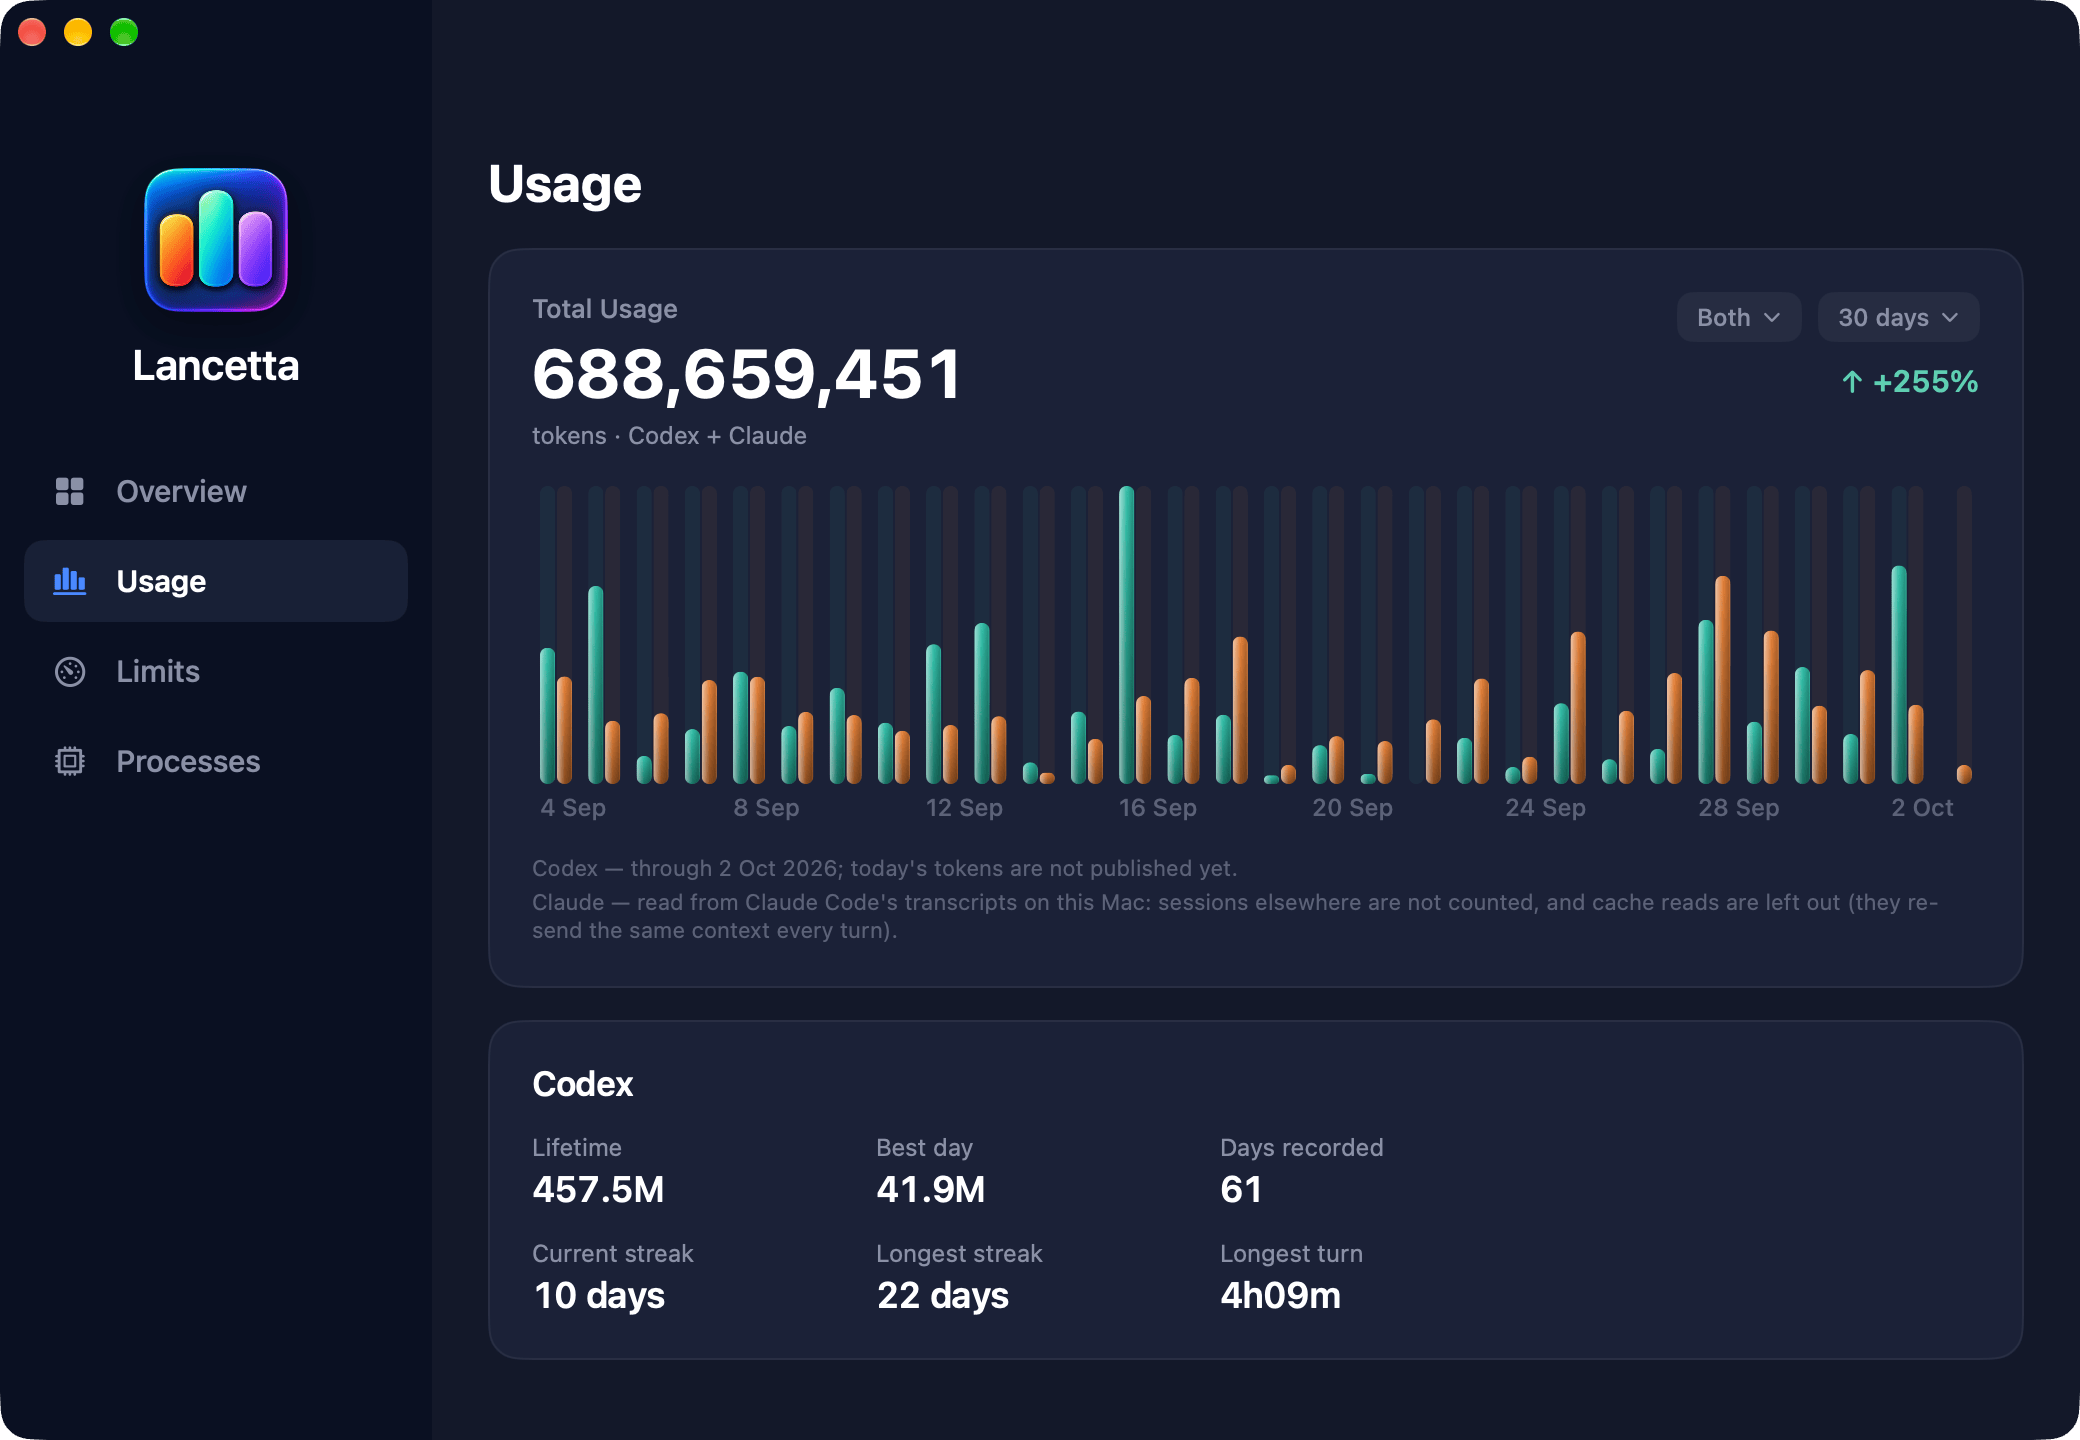
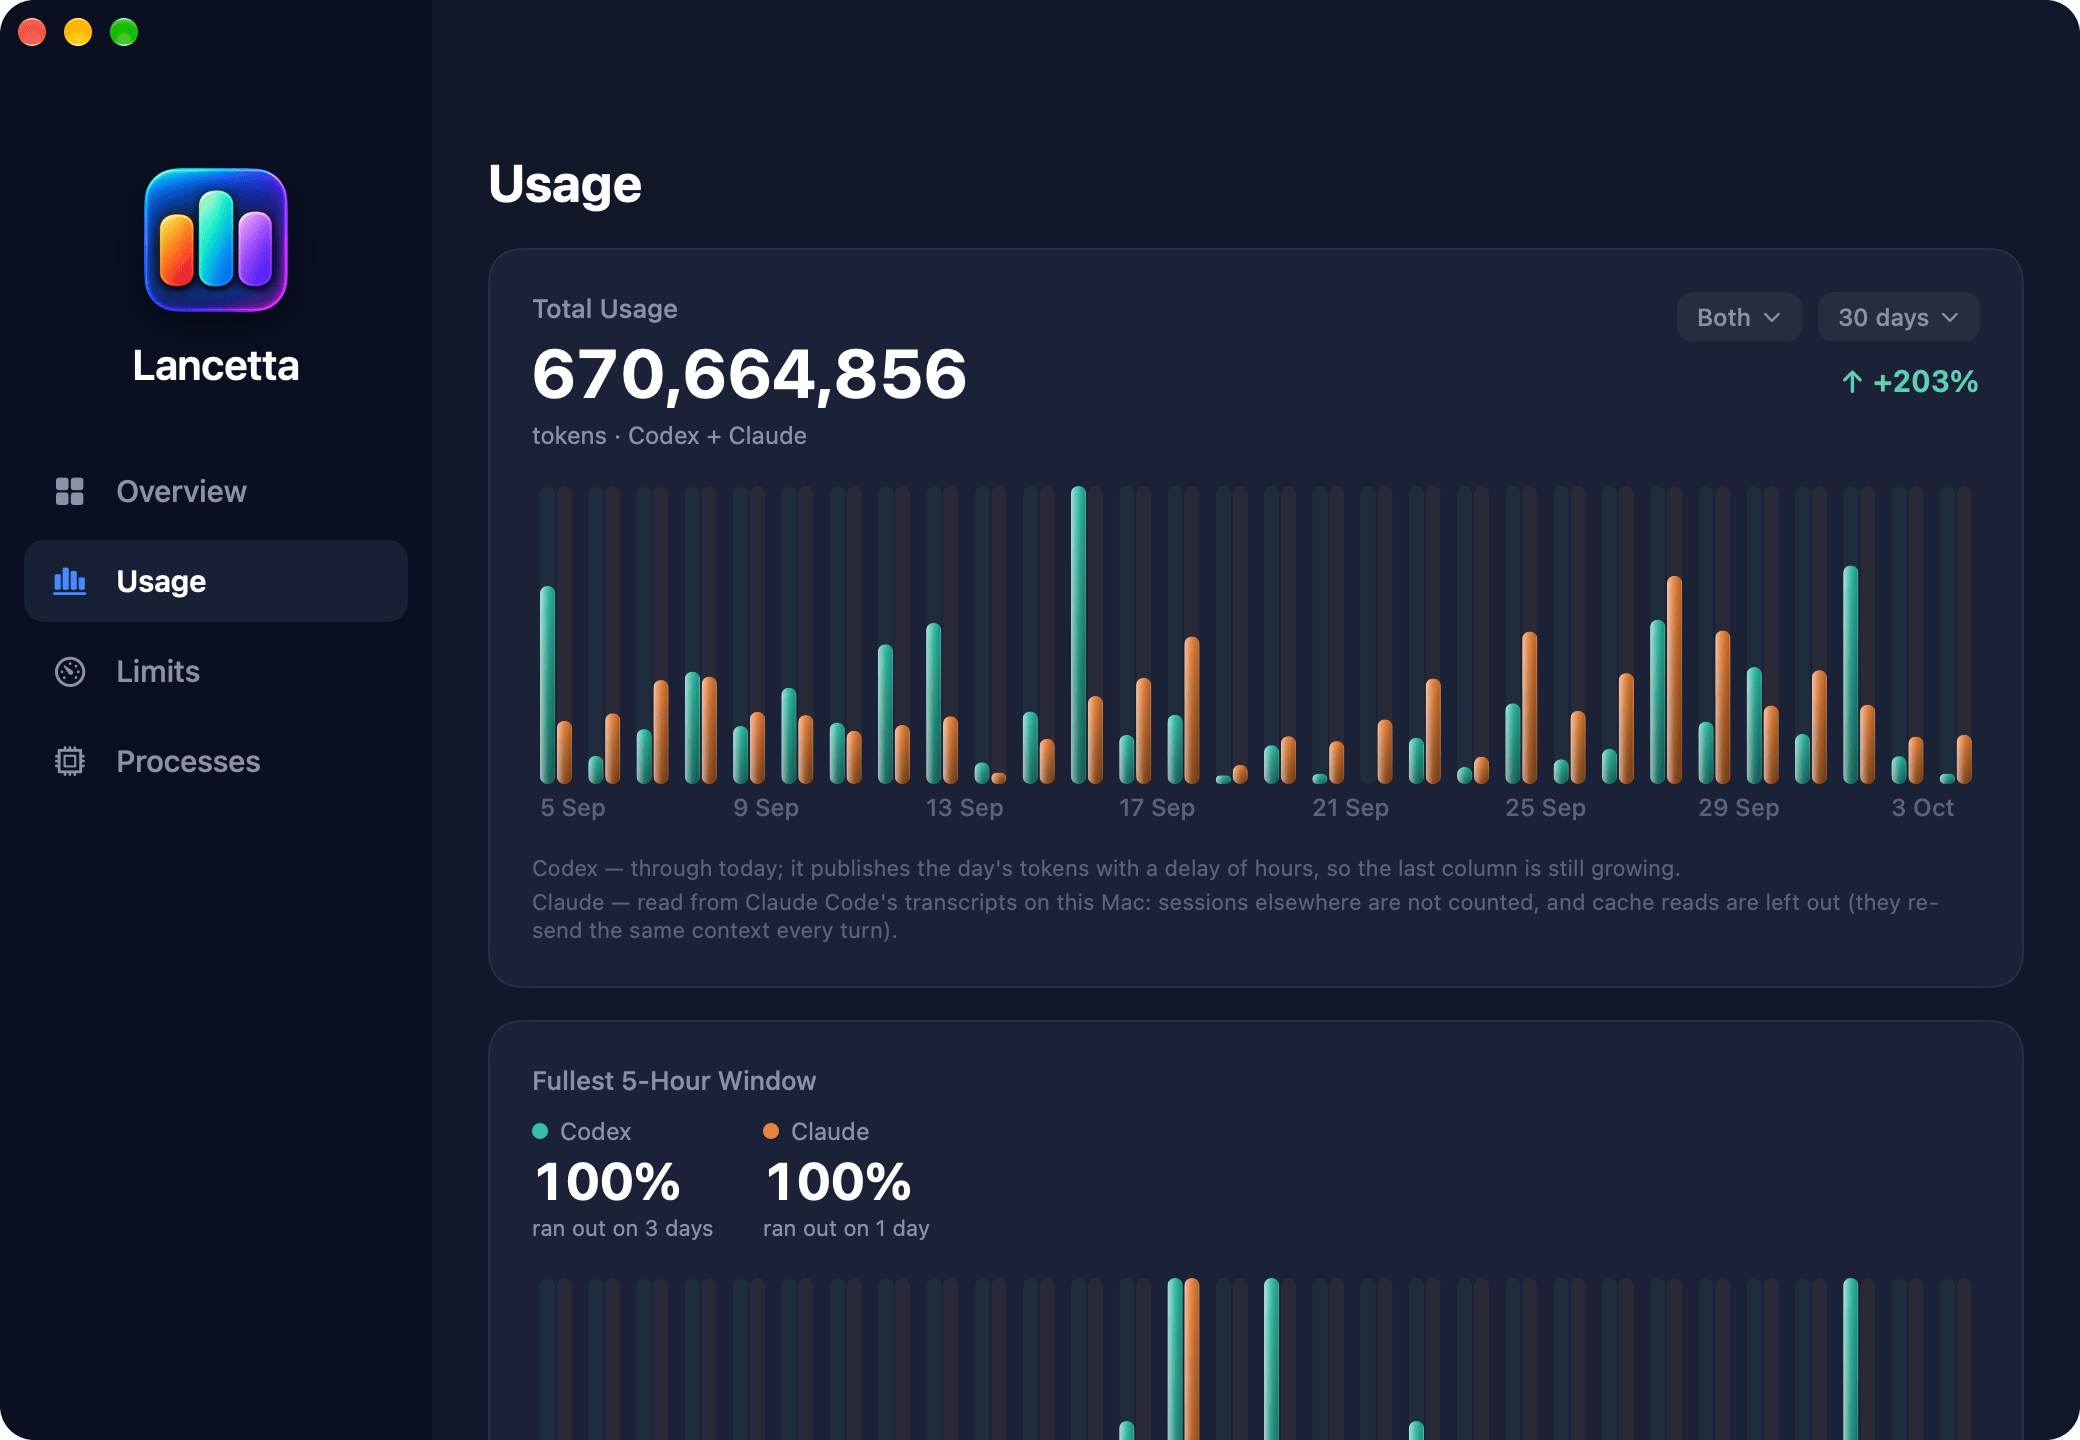
docs: the Usage frame and two crops from 0.16.0
The release commit carried the prose for working hours and the fullest
5-hour window; the pictures still showed 0.15. The Usage pane now opens
on the Fullest card under Total Usage, so its frame was re-shot and its
alt text follows. The card and the Working hours group each get a crop
beside the paragraph describing them.

CLAUDE.md records how they were made from a job whose captures failed:
the app's snapshot hatch, the corner radii, and why a snapshot's pixels
must be compared with the set in one colour space.

diff --git a/CLAUDE.md b/CLAUDE.md
@@ -331,7 +331,9 @@ Published today: the menu in both appearances, the island collapsed and open,
 the window's Overview, Usage, Limits and Processes panes plus the Overview
 scrolled to Last week, and every Settings
 pane: General, Appearance, Notch, Agents, both agent pages, Sources, Updates and
-About.
+About. Two crops sit beside them: the Usage pane's Fullest 5-Hour Window card
+(`screenshot-fullest-window.png`) and the Working hours section of Settings
+(`screenshot-settings-working-hours.png`), both from 0.16.0.
 
 **The four window panes are ONE SET, shot at ONE window size, in one run.** The
 hero showed them in the same box, one per frame, cross-fading in place, so a
@@ -442,6 +444,37 @@ and relaunched plain afterwards. Three things that run paid for:
   as the published one was. With real numbers the pace line is calm; the amber
   stop cannot be summoned from a real account, only from the demo agents, which
   are not publishable.
+
+**The Usage pane and its two crops were re-shot on 2026-10-04 for 0.16.0, from a
+background job whose captures all failed**: `screencapture -l` answered *could
+not create image from window* for every window, sandboxed or not, including the
+one window on the active Space (a full-screen terminal), whose name
+`CGWindowListCopyWindowInfo` still read. A window on ANOTHER Space fails the same
+way with every grant in place, so list `.optionOnScreenOnly` first and capture
+something in it before concluding anything about permissions. So the frames came
+from the app's own snapshot hatch (debug builds, `LANCETTA_SIGNALS=1`
+and `kill -URG <pid>`, which draws each open window into a PNG in
+`LANCETTA_SNAPSHOT`; `../Lancetta/CLAUDE.md` has it). What it draws differs from
+a capture in two ways, each fixed by hand:
+- **No rounded corners.** The window frame was masked to a 34 px radius at 2x,
+  which is what the published set measures (the top row turns opaque at x=34,
+  the diagonal at 10). The card crops take the card's own radius: 32 px for a
+  window card (`Theme.Radius.card`, 16 pt), 24 px for a Settings group.
+- **Content below the fold is not drawn.** The Fullest card was shot from a
+  throwaway build with it moved to the top of the pane, and the Working hours
+  section the same way in Settings, with `makeFirstResponder(nil)` before the
+  snapshot: at the top of the pane the hour field took focus and drew selected.
+  Working hours are off by default, so they were switched on for that one process
+  in the argument domain (`APP_DEFAULTS="-claudeAccountConnected 0
+  -workingHoursOn YES"`), never in the user's own defaults.
+
+**Compare a snapshot's pixels with the published set's in ONE colour space.** The
+snapshot is tagged Display P3 and the published frames are sRGB (ImageOptim
+converts), so the raw values differ by the conversion alone: the snapshot's red
+button read `(225, 103, 91)` against the published `(244, 91, 80)` and looked
+desaturated, while the published button converted to P3 read `(226, 101, 87)`,
+the same colour. Pasting the published buttons in as raw values would have made
+them oversaturated after ImageOptim, at `(255, 83, 80)`.
 
 The frames went through ImageOptim.app (the workspace's always-on rule), which
 writes a 256-colour palette here: the seven frames take 404 KB, against 2.14 MB
